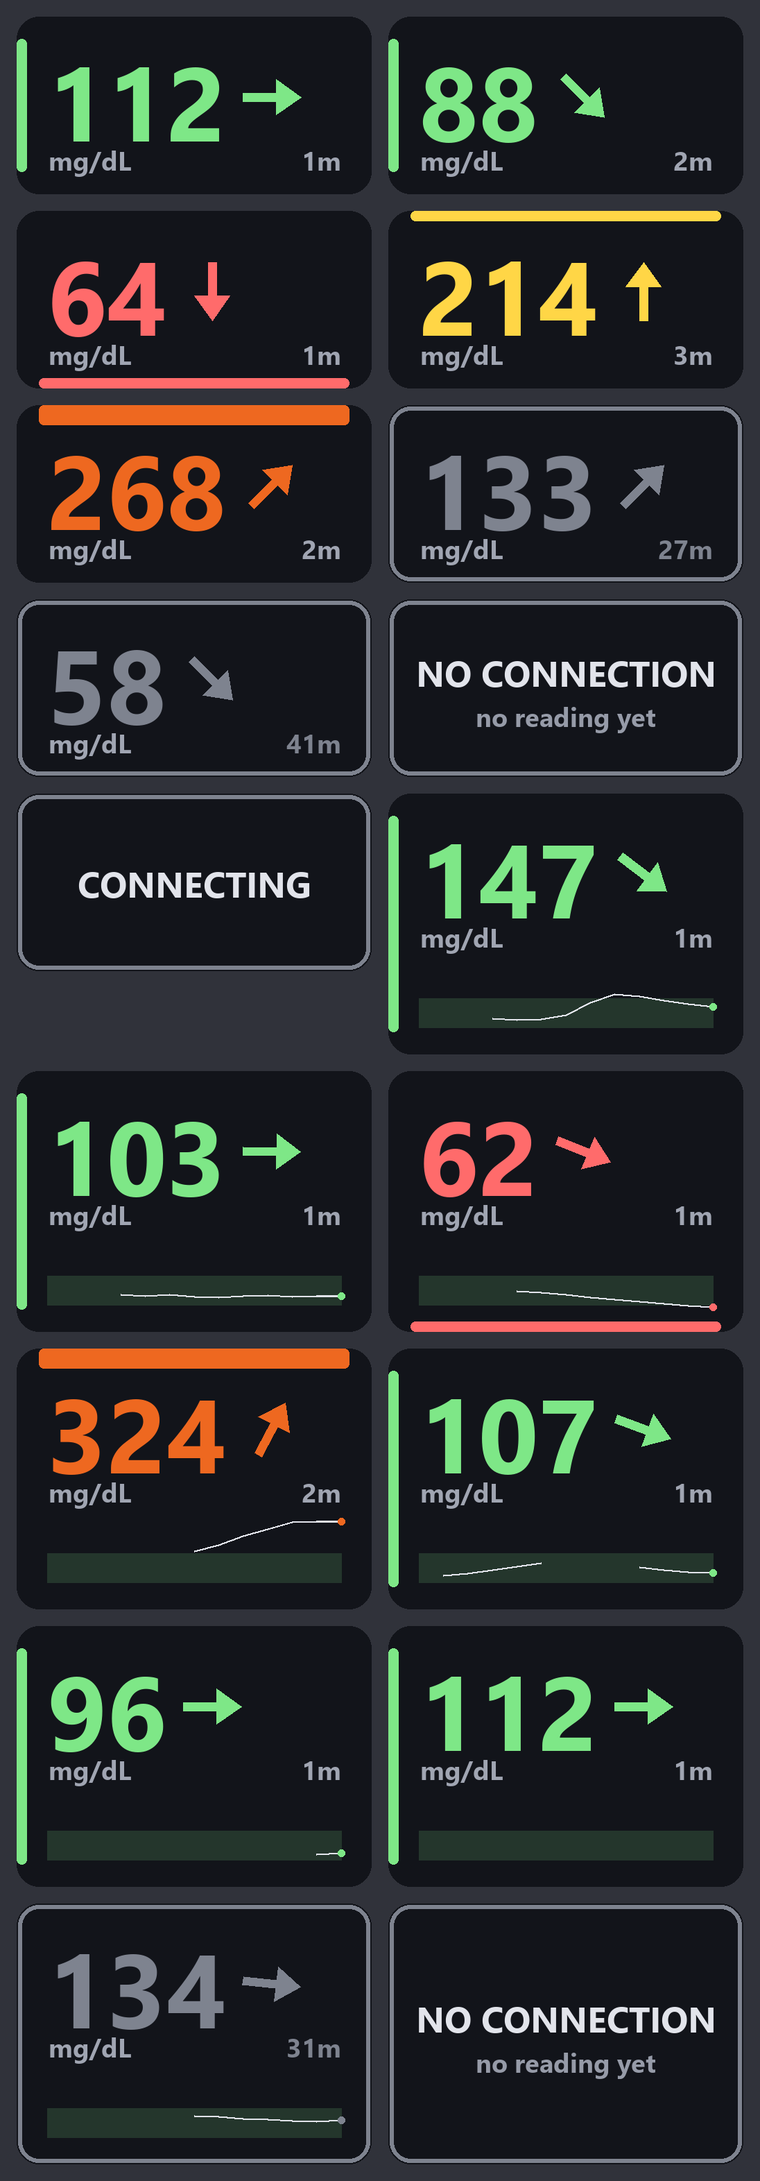
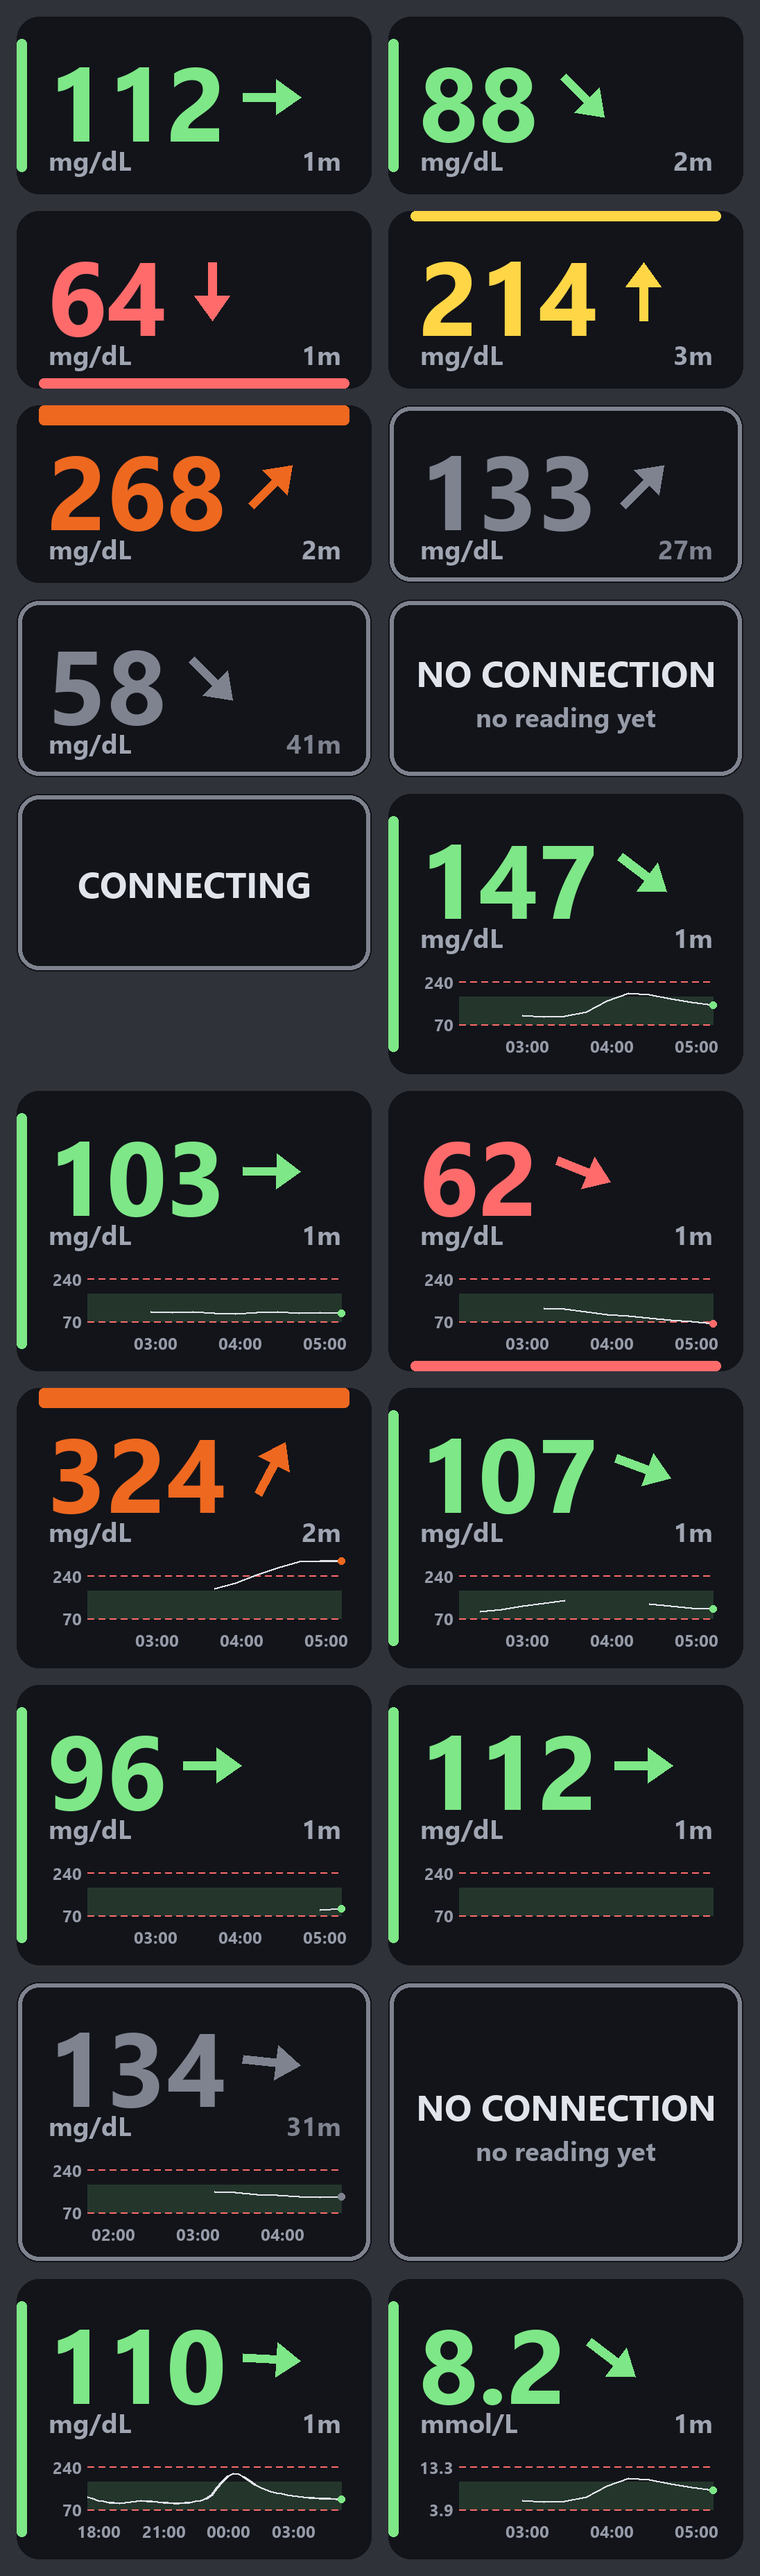
docs: describe the full-history window and the new labels
preview.py gains the two tiles the change is really about: twelve hours
under `window_min = 0`, where the time axis has to step more coarsely
than the three hour tiles above it, and the same graph in mmol/L, where
the level labels convert and nothing else does.

diff --git a/tools/preview.py b/tools/preview.py
@@ -74,9 +74,26 @@ def gapped(mgdl: float, trend: int, age_min: float) -> Reading:
     )
 
 
+# Twelve hours, at the fifteen minutes apart the API sends: an
+# overnight flat stretch, breakfast, and the settle after it. This is
+# what `window_min = 0` actually has to draw.
+DAY = [
+    118, 112, 106, 101, 98, 96, 95, 97, 99, 102, 104, 103,
+    101, 99, 97, 96, 95, 94, 96, 98, 101, 105, 112, 128,
+    154, 181, 203, 214, 211, 199, 184, 170, 158, 148, 141, 136,
+    132, 128, 125, 122, 119, 117, 115, 114, 113, 112, 111, 110,
+]
+
+
 def main() -> int:
     plain = WatchFaceRenderer()
     graphed = WatchFaceRenderer(graph=GraphTuning())
+    # window_min = 0: everything the response carried, with the X axis
+    # as long as the history rather than a fixed length.
+    allday = WatchFaceRenderer(graph=GraphTuning(window_min=0))
+    # The labels are the one part of the face that changes with the
+    # display unit, so one tile has to be drawn in the other one.
+    mmol = WatchFaceRenderer(unit="mmol", graph=GraphTuning())
 
     # Every status appears once, because each one now has a marker edge of
     # its own and the point of the sheet is to see them side by side: left
@@ -129,6 +146,15 @@ def main() -> int:
             reading(134, 3, 31, [151, 148, 141, 137, 133, 130, 134])
         ),
         graphed.render_message("NO CONNECTION", detail="no reading yet"),
+        # All twelve hours. The times underneath step to whatever keeps
+        # them to four labels, so this and the three-hour tiles above
+        # should not be labelled at the same interval.
+        allday.render(reading(110, 3, 1, DAY)),
+        # And the same graph in mmol/L: the level labels convert, the
+        # arithmetic behind them does not.
+        mmol.render(
+            reading(147, 4, 1, [104, 99, 102, 118, 163, 194, 188, 171, 158, 147])
+        ),
     ]
 
     # The tiles are no longer all one size, so the grid is measured off

diff --git a/README.md b/README.md
@@ -513,15 +513,21 @@ axis_high_mgdl = 300.0
 |---|---|
 | `in_window` (true) | Draw it in the desktop window |
 | `in_vr` (false) | Draw it on the controller face |
-| `window_min` (180) | How far back it shows. The floor is 30: the history arrives at one point every 15 minutes, so a shorter window has no two points to draw a line between |
+| `window_min` (180) | How far back it shows. **`0` means all of it** — everything the response carried, about twelve hours, with the time axis running from the oldest reading to the newest. Any other value is a length, and the floor is then 30: the history arrives at one point every 15 minutes, so anything shorter has no two points to draw a line between |
 | `axis_low_mgdl` (40) / `axis_high_mgdl` (300) | The bottom and top of the Y axis. Must contain `low_mgdl` and `high_mgdl` |
+
+A fixed window and `0` are for different things. `0` shows the most, and
+the axis is as long as the history behind it, so it never draws empty
+space where a sensor had not been running yet. A fixed window holds the
+axis still between fetches, which is what you want if you are glancing
+rather than reading.
 
 **The two frontends are separate settings on purpose.** A window is read
 at a desk, where a few hours of history is worth the room it takes. The
 overlay is glanced at mid-game, where the number in half a second is the
 whole design goal, so it stays off there unless you ask for it.
 
-Turning it on grows the card from 512x256 to 512x376. The window resizes
+Turning it on grows the card from 512x256 to 512x404. The window resizes
 itself on the next frame; in VR the face keeps the width `width_m` gives
 it and gets taller, so expect to revisit `offset` if you switch it on
 there.
@@ -540,9 +546,17 @@ What it draws, and why each of these is a rule rather than a preference:
 - **The line breaks across gaps rather than spanning them.** A stretch
   where the phone was not scanning gets no line drawn through it,
   because a line there would be measurements that were never taken.
+- **`low_mgdl` and `very_high_mgdl` each get a red dashed line**,
+  labelled with the level. They are the two the band does not mark —
+  its lower edge is `low_mgdl`, but a change of shade is not a line, and
+  `very_high_mgdl` is outside it altogether.
 - **The newest point is marked in the status colour**, the same colour
   as the digits. It is the one place the graph and the number are the
   same fact, and it says which end is now.
+- **The labels follow `display.unit` and your own clock.** The levels
+  read 70 and 240 in mg/dL mode and 3.9 and 13.3 in mmol/L; the times
+  along the bottom are local, and step to whatever keeps them to four
+  or so. The comparisons behind all of it stay in mg/dL.
 
 `tools/preview.py` draws all of it — a meal rise, a quiet run, a fall
 into a low, a reading off the top of the axis, a scanning gap, and a

diff --git a/NOTES.md b/NOTES.md
@@ -52,8 +52,8 @@ Nothing has exercised these yet. Each says how to check it.
   `GRAPH_RESOLUTION_MIN`.
 - **The sparkline on a controller.** `graph.in_vr` has never been run on
   a headset; everything below was decided at a desk with `--window`. It
-  grows the card from 512x256 to 512x376, and the overlay is sized by
-  width, so at `width_m = 0.14` the face becomes about 10cm tall instead
+  grows the card from 512x256 to 512x404, and the overlay is sized by
+  width, so at `width_m = 0.14` the face becomes about 11cm tall instead
   of 7 and grows around its centre — which means `offset` was tuned for
   a shorter card and will want revisiting. The question a device answers
   and a desk cannot is whether three hours of trace is legible at arm's
